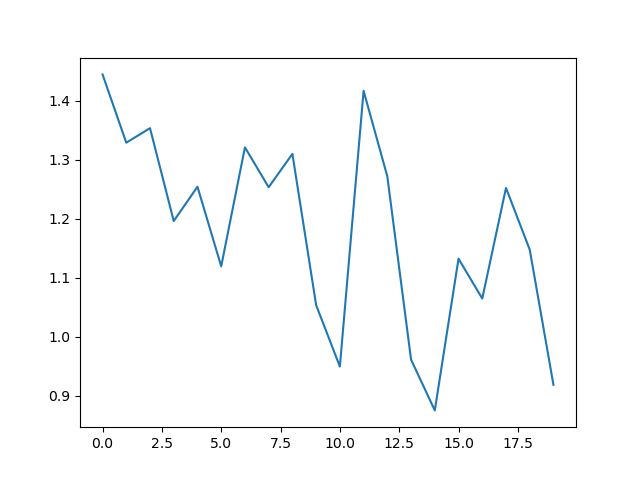
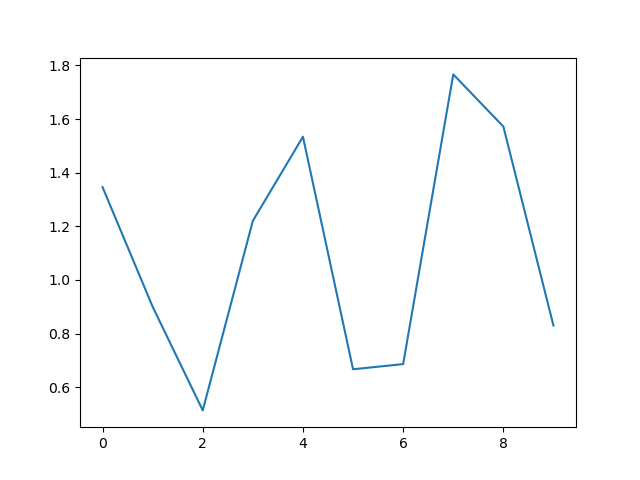
modified:   ../train.py 	modified:   ../train_loss.png

diff --git a/train.py b/train.py
@@ -40,6 +40,7 @@ class NueralNet(nn.Module):
         size_scale = int(4/downsample)**2
         self.model = nn.Sequential(
             nn.Conv2d(in_channels=3, out_channels=128, kernel_size=3, padding=1),
+            nn.Dropout(0.25),
             nn.ReLU(), 
             nn.MaxPool2d(kernel_size=2, stride=2),
             nn.Flatten(),
@@ -130,6 +131,7 @@ def train_evaluate(task="pose", dim_out=4, useDeepNN=False, useFER=False, downsa
         model.train()
         train_loss = []
         train_acc = []
+        val_acc = []
         best_acc = 0
         for epoch in range(n_epochs):
             acc = 0
@@ -145,19 +147,28 @@ def train_evaluate(task="pose", dim_out=4, useDeepNN=False, useFER=False, downsa
                 optimizer.step()
 
             if epoch %10 ==0:
-                 train_loss.append(loss.item())
-                 train_acc.append(acc/len(train_dataloader))
+                 train_loss.append((epoch, loss.item()))
+                 train_acc.append((epoch, acc/len(train_dataloader)))
                  val_accuracy = validate(model, val_dataloader)
+                 val_acc.append((epoch, val_accuracy))
                  print("epoch: ", epoch, "\t train loss: ", loss.item(), "\t acc: ", train_acc[-1], "\t val acc: ", val_accuracy)
                  if val_accuracy > best_acc:
                      best_acc = val_accuracy
                      best_model = copy.deepcopy(model)
             exp_lr_scheduler.step()
 
-        plt.plot(train_loss)
+        plt.plot(*zip(*train_loss))
+        plt.title("Training loss")
+        plt.xlabel("epoch")
+        plt.ylabel("loss")
         plt.savefig("train_loss.png")
         plt.figure() 
-        plt.plot(train_acc)
+        plt.plot(*zip(train_acc), label="train acc")
+        plt.plot(*zip(val_acc), label='evaluation"')
+        plt.legend(loc="upper right")
+        plt.title("Traing and evaluation Accuracy")
+        plt.xlabel("epoch")
+        plt.ylabel("accuracy")
         plt.savefig("train_acc.png")
 
         t = time.localtime()
@@ -191,10 +202,10 @@ def run_all_single_tasks(tasks):
         print("------------------------------------------------")
         print("-----------   expression task    -----------------------")
         #train_evaluate(task="expression", dim_out=4, useDeepNN=False, downsample=downsample, batch_size=16, lr=0.5, n_epochs=200)
-        #train_evaluate(task="expression", dim_out=4, useDeepNN=False, useFER=False,
-        #               downsample=downsample, batch_size=16, lr=0.01, n_epochs=200)
-        train_evaluate(task="expression", dim_out=4, useDeepNN=True, useFER=True,
-                       downsample=downsample, batch_size=16, lr=0.001, n_epochs=100)
+        train_evaluate(task="expression", dim_out=4, useDeepNN=False, useFER=False,
+                       downsample=downsample, batch_size=16, lr=0.01, n_epochs=200)
+        #train_evaluate(task="expression", dim_out=4, useDeepNN=True, useFER=True,
+        #               downsample=downsample, batch_size=16, lr=0.001, n_epochs=100)
 
     if 2 in tasks:
         print("------------------------------------------------")
